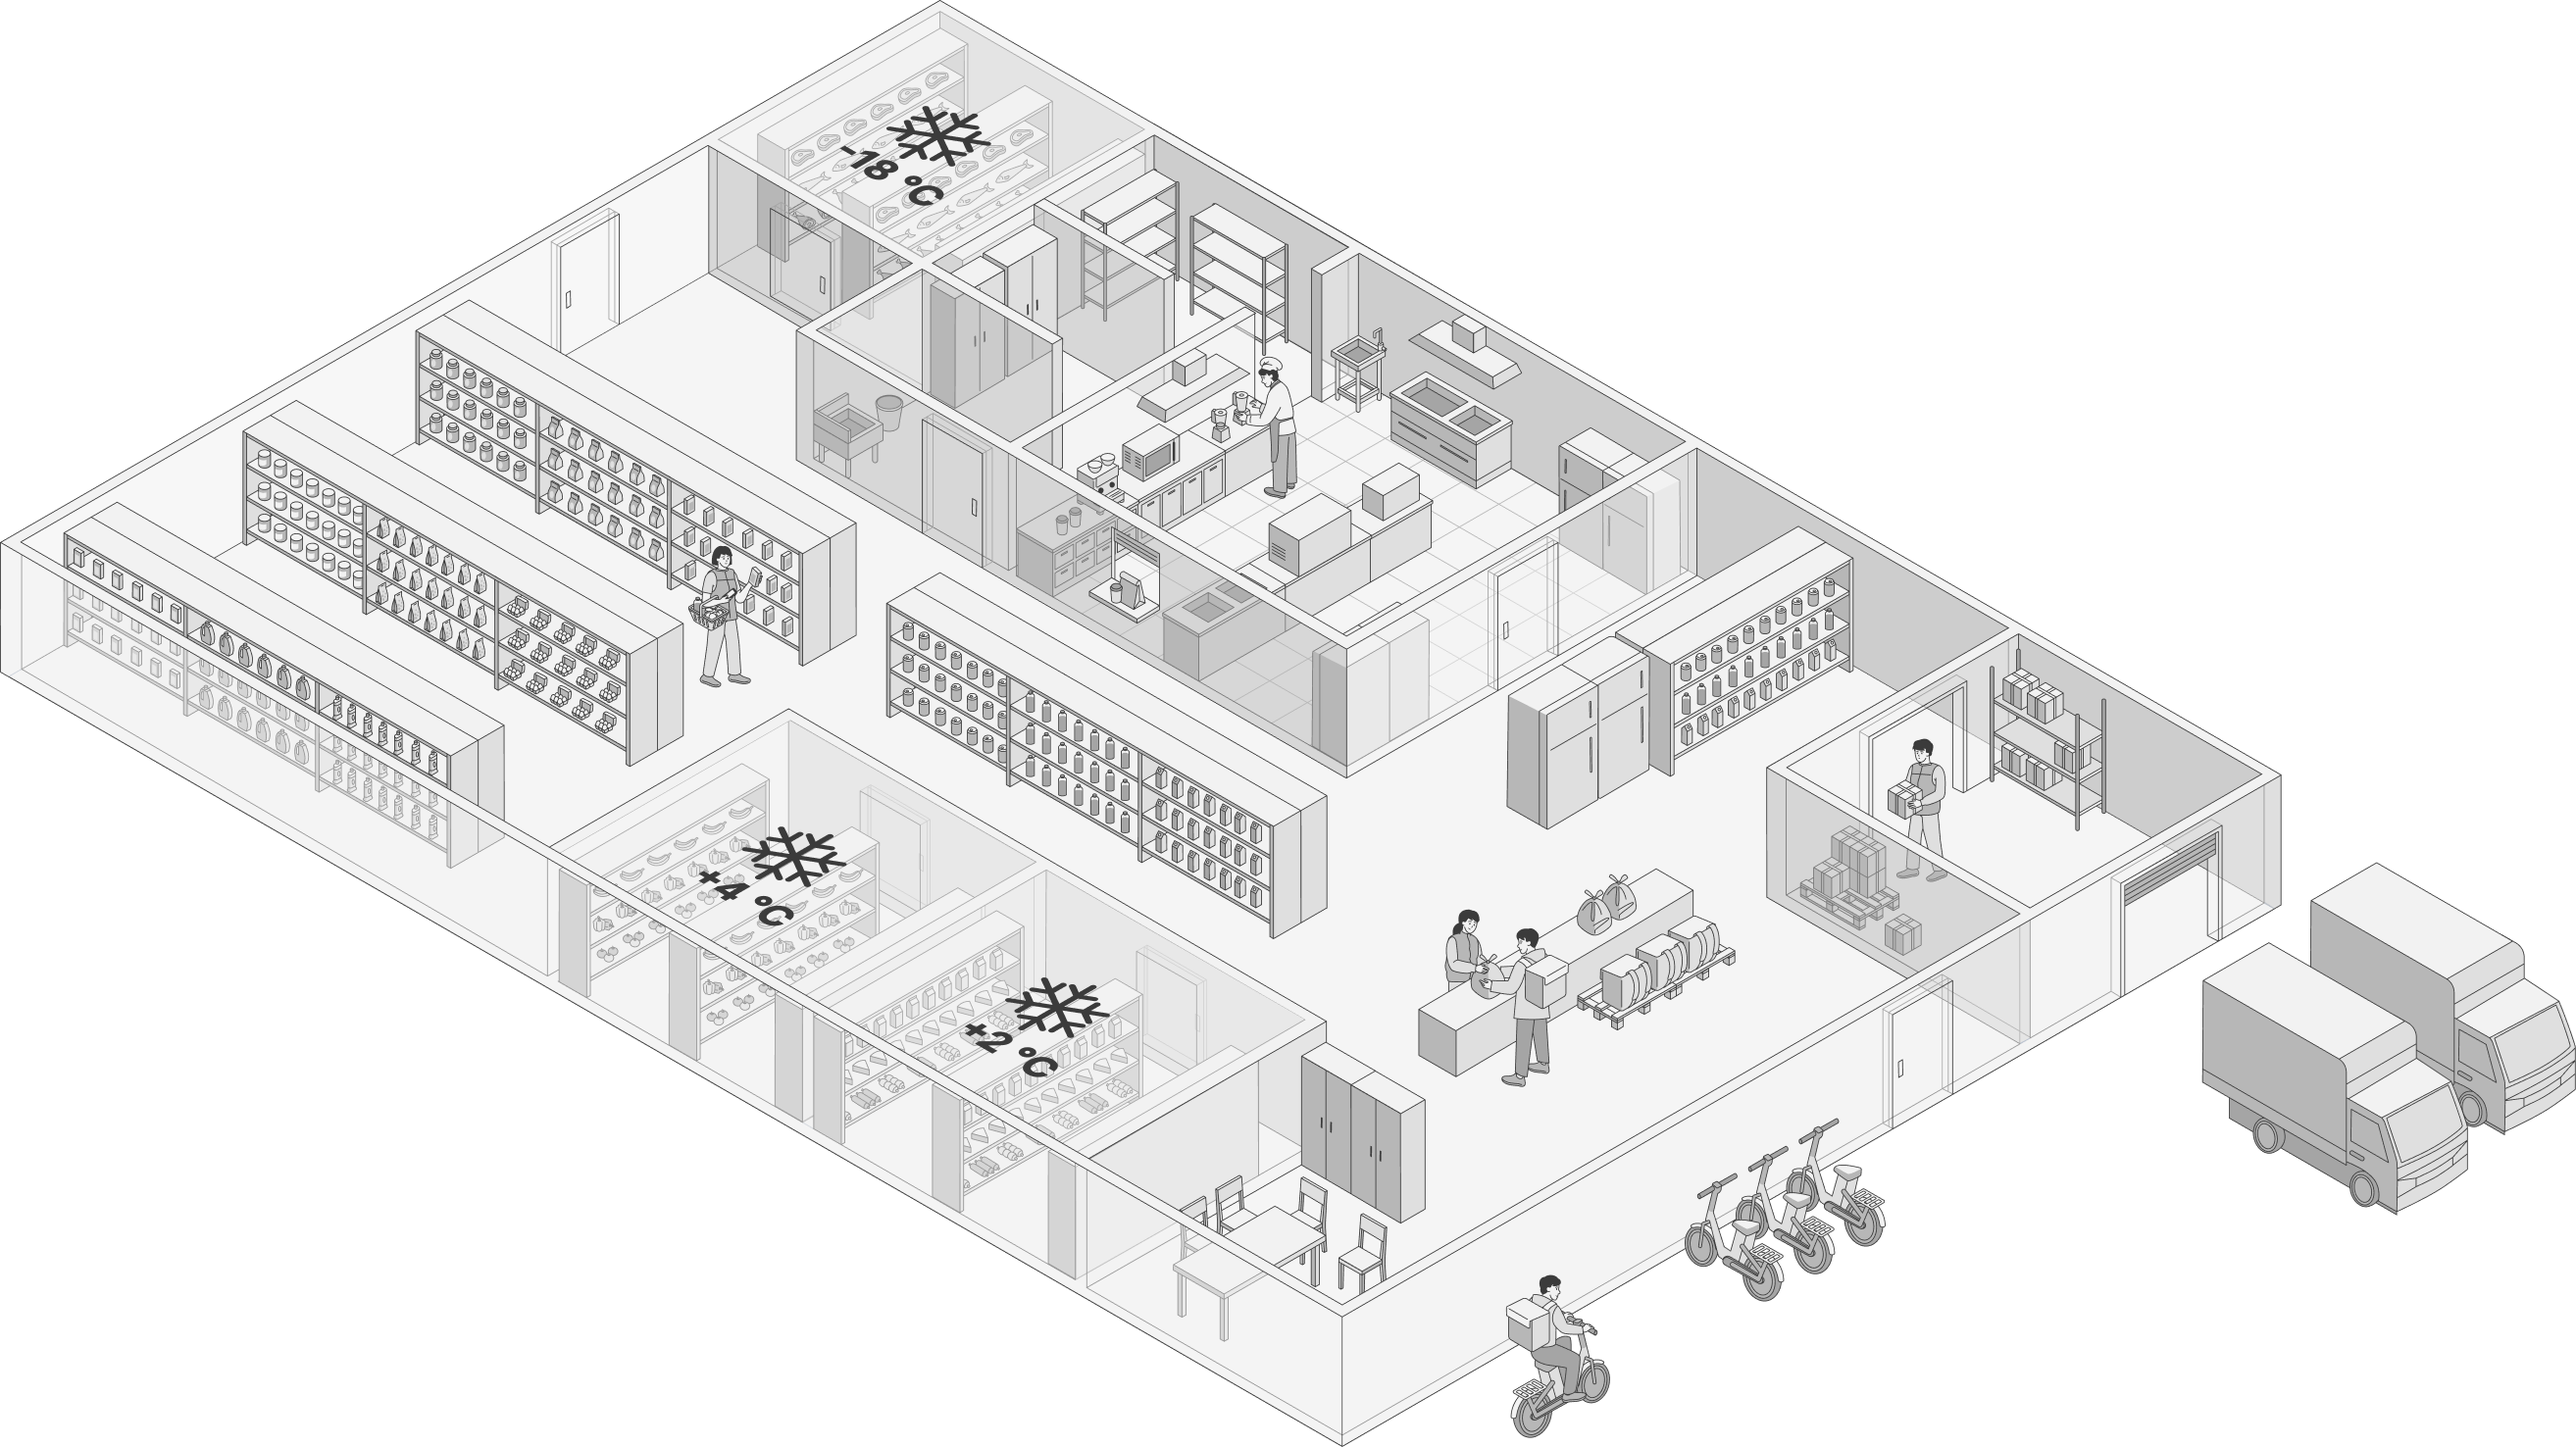
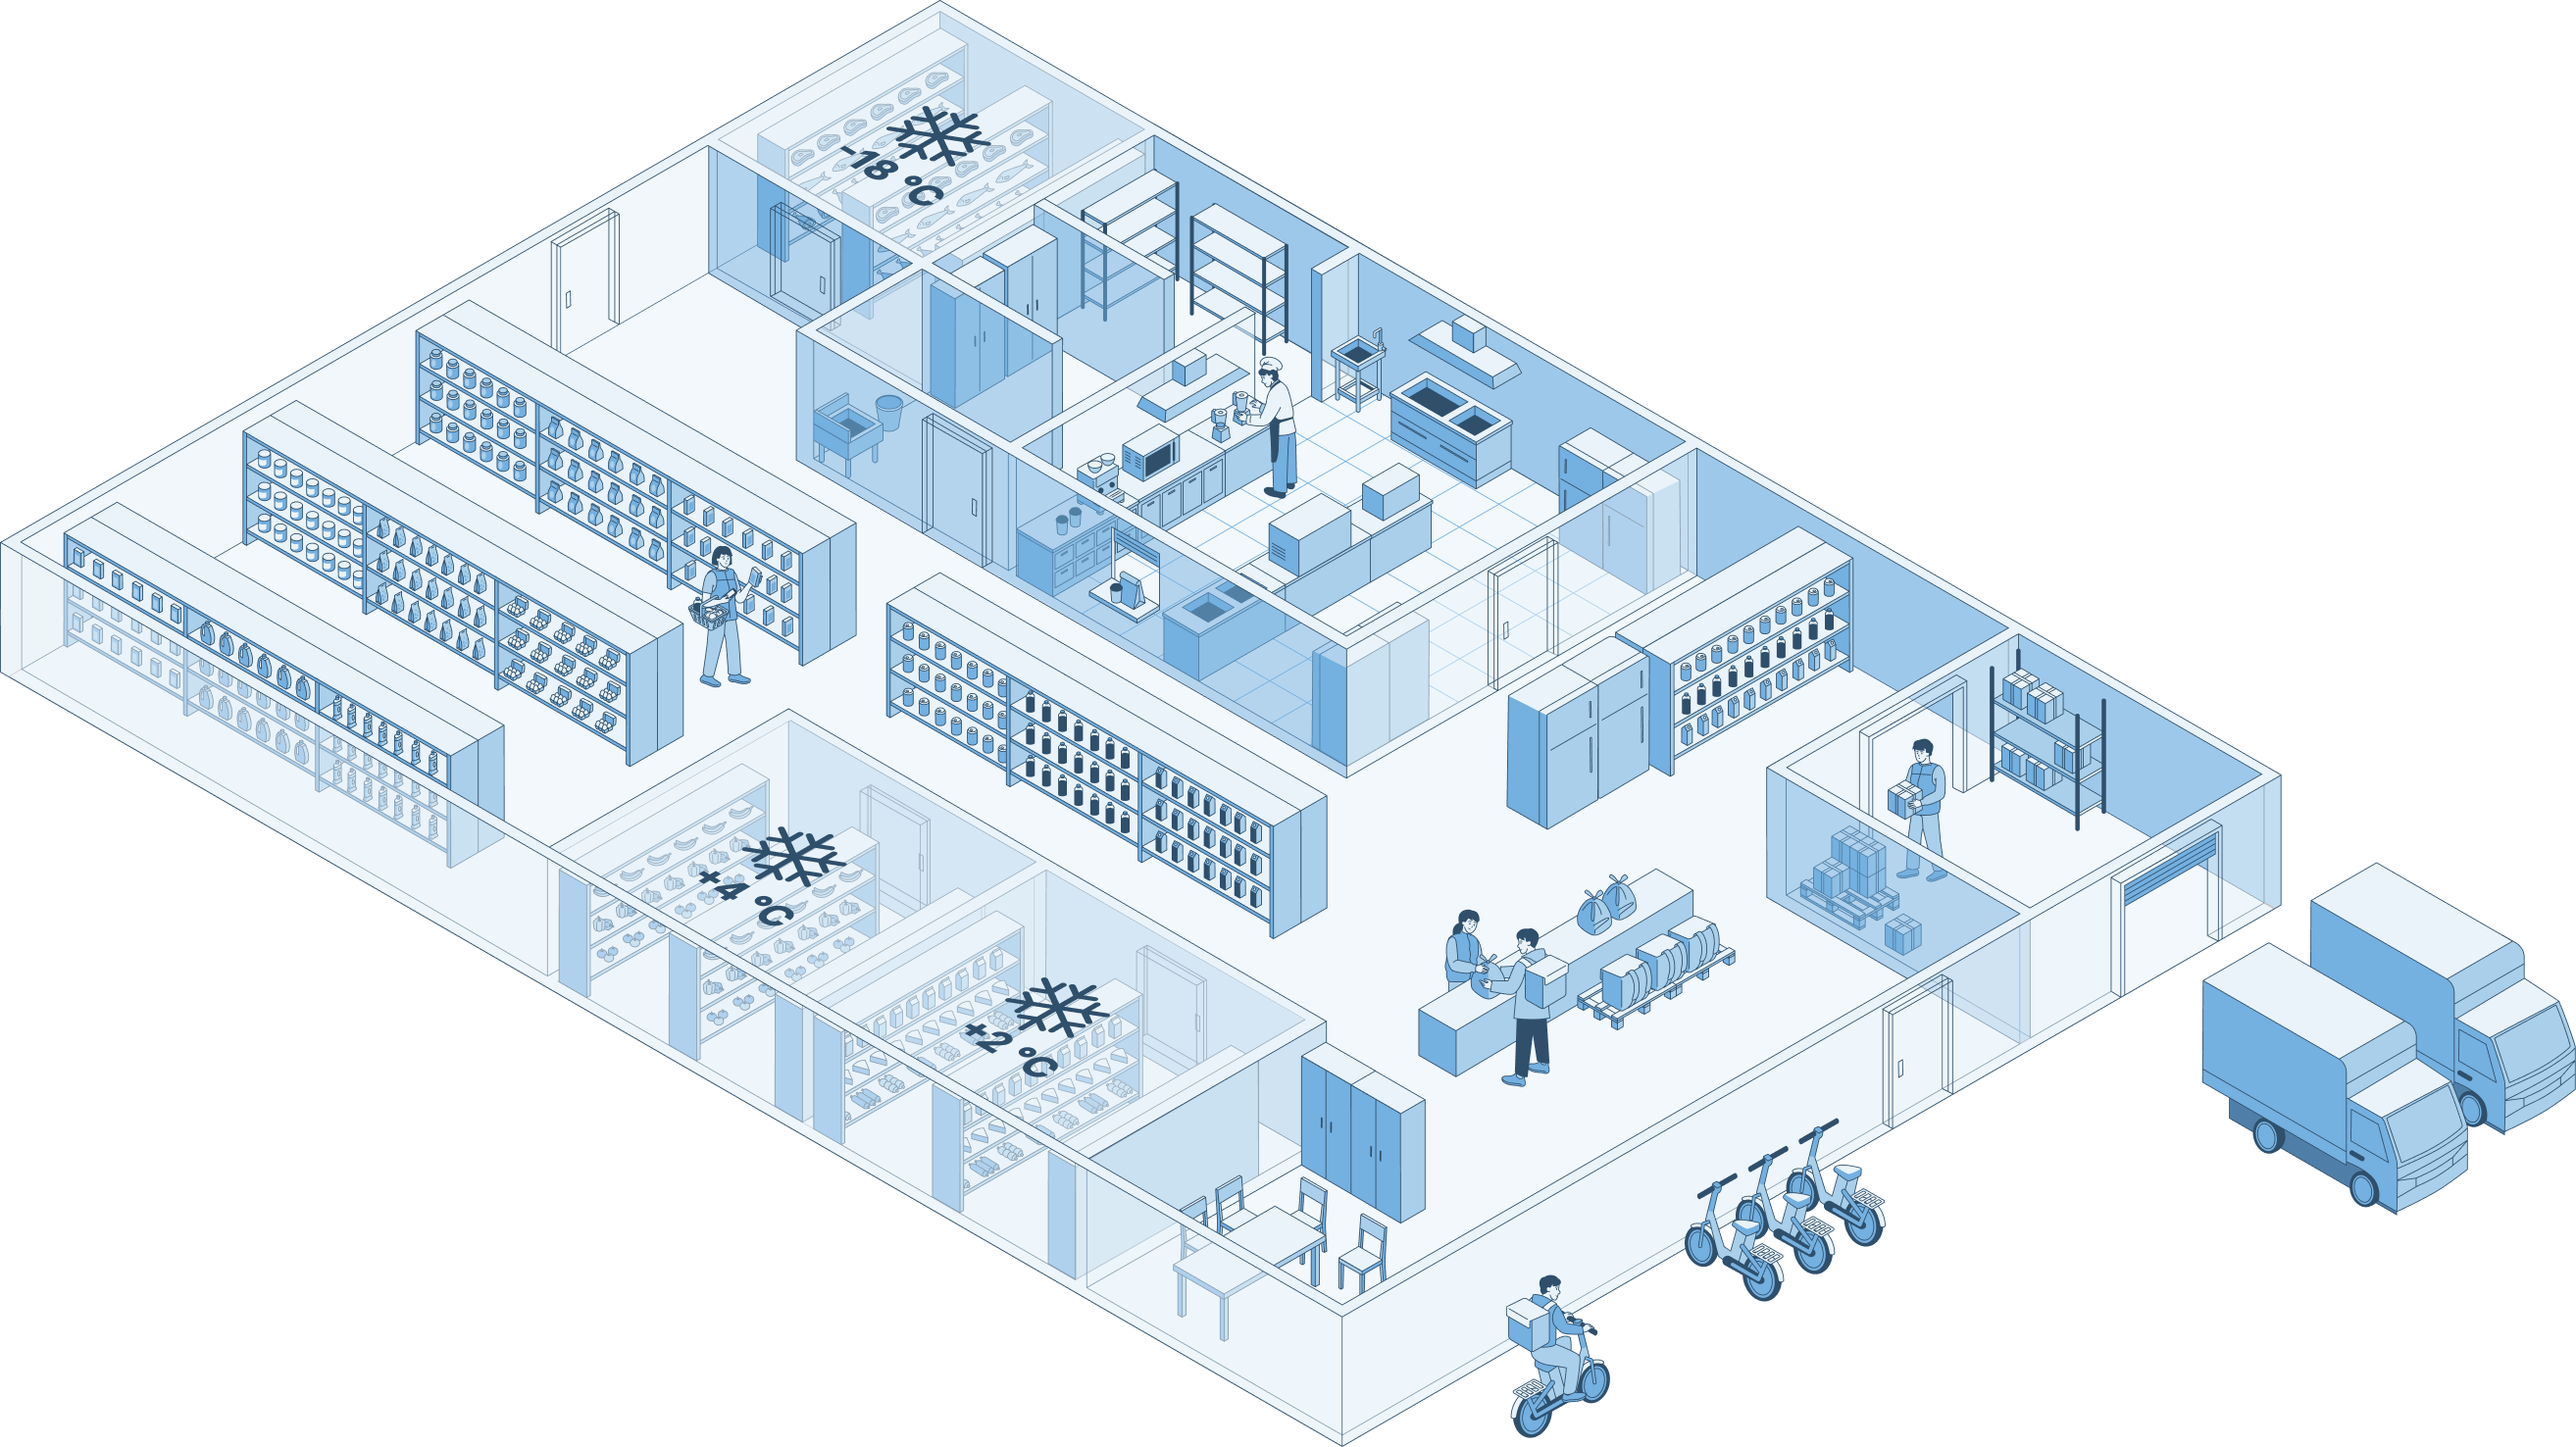
Публикация: блок цифр и карта даркстора по обновлённому макету

Changed region(s): [[0.0, 0.0312, 1.0, 0.9038], [0.6555, 0.7791, 0.7491, 0.9038], [0.5619, 0.8726, 0.6243, 0.9973]]

diff --git a/index.html b/index.html
@@ -74,13 +74,13 @@
       <div class="numbers__grid">
         <article class="number-card reveal">
           <strong class="counter" data-count="28">28</strong>
-          <h2>городов, где работает Яндекс&nbsp;Лавка</h2>
-          <p>Бизнес-модель, технологии и&nbsp;сильный бренд<br>уже работают&nbsp;— не&nbsp;нужно строить с&nbsp;нуля</p>
+          <h2>где работает сервис</h2>
+          <p>Бизнес-модель, технологии и&nbsp;сильный бренд уже работают&nbsp;— не&nbsp;нужно строить с&nbsp;нуля</p>
         </article>
         <article class="number-card reveal" style="--delay:.08s">
-          <strong class="counter" data-count="25">25</strong>
-          <h2>городов<br>в&nbsp;работе</h2>
-          <p>Партнёры готовятся к&nbsp;запуску,<br>а&nbsp;мы сопровождаем на&nbsp;каждом этапе</p>
+          <strong class="counter" data-count="14">14</strong>
+          <h2>городов запущено по&nbsp;франшизе</h2>
+          <p>Партнёры готовятся к&nbsp;запуску, а&nbsp;мы сопровождаем на&nbsp;каждом этапе</p>
         </article>
         <article class="number-card reveal" style="--delay:.16s">
           <strong class="counter" data-count="15">15</strong>

diff --git a/styles.css b/styles.css
@@ -123,7 +123,8 @@ ul{padding:0;list-style:none}
 .number-card:hover::before,.number-card:hover::after{filter:blur(124px)}
 .number-card .counter{font-size:154px;line-height:.9;font-weight:900}
 .number-card h2{margin-top:22px;margin-bottom:14px;font-size:31px;line-height:1.05;font-weight:800}
-.number-card p{margin-top:auto;width:266px;max-width:100%;font-size:13px;line-height:1.35;color:#c0d2ec}
+.number-card p{margin-top:auto;width:266px;max-width:100%;font-size:14px;line-height:1.35;color:#c0d2ec}
+.number-card:first-child p{width:289px}
 
 /* Business */
 .business{padding-inline:0}
